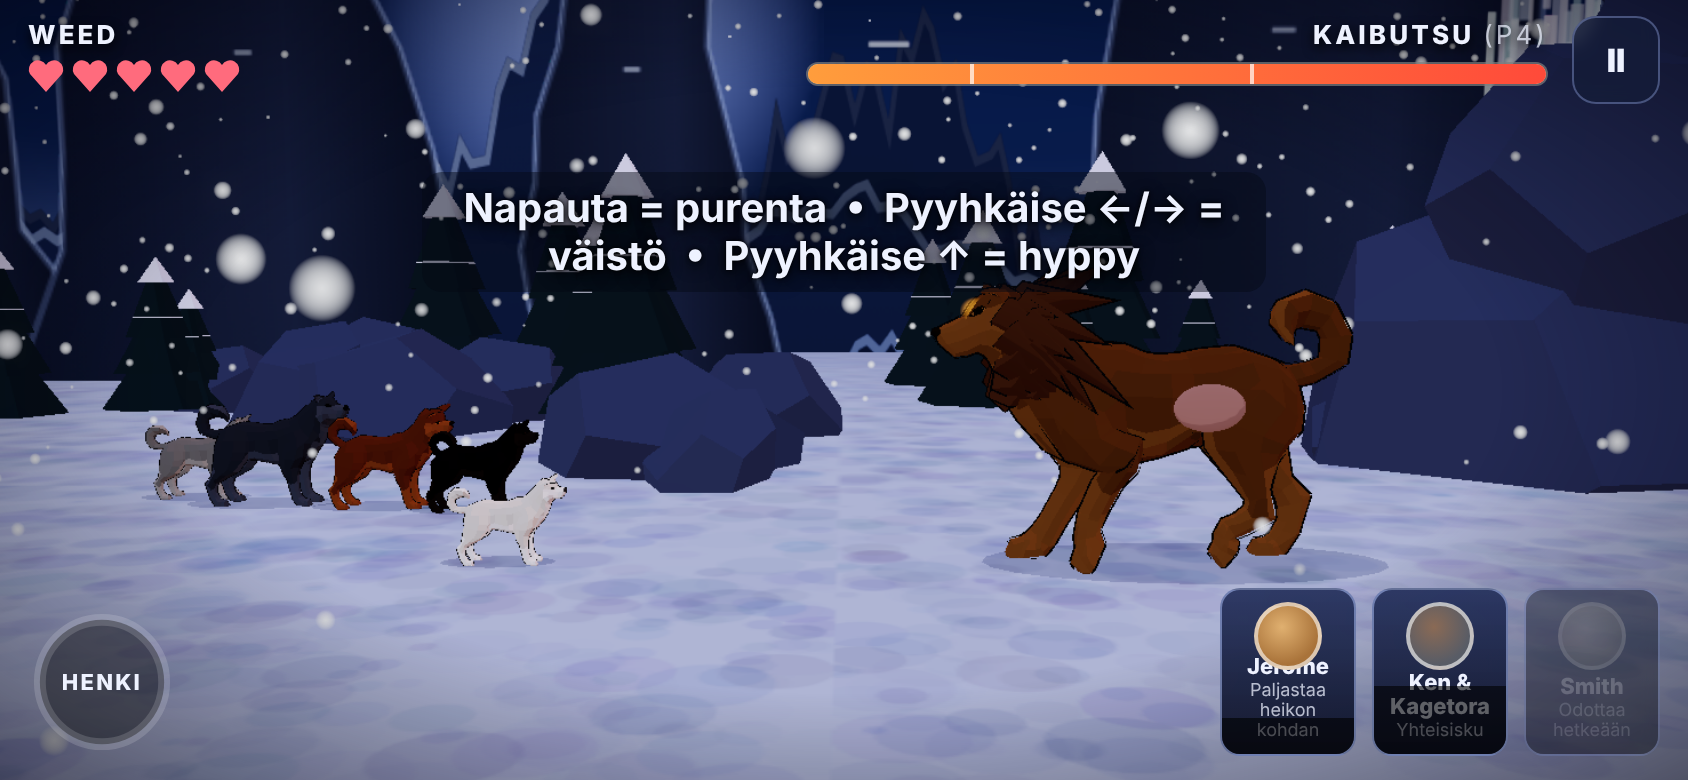
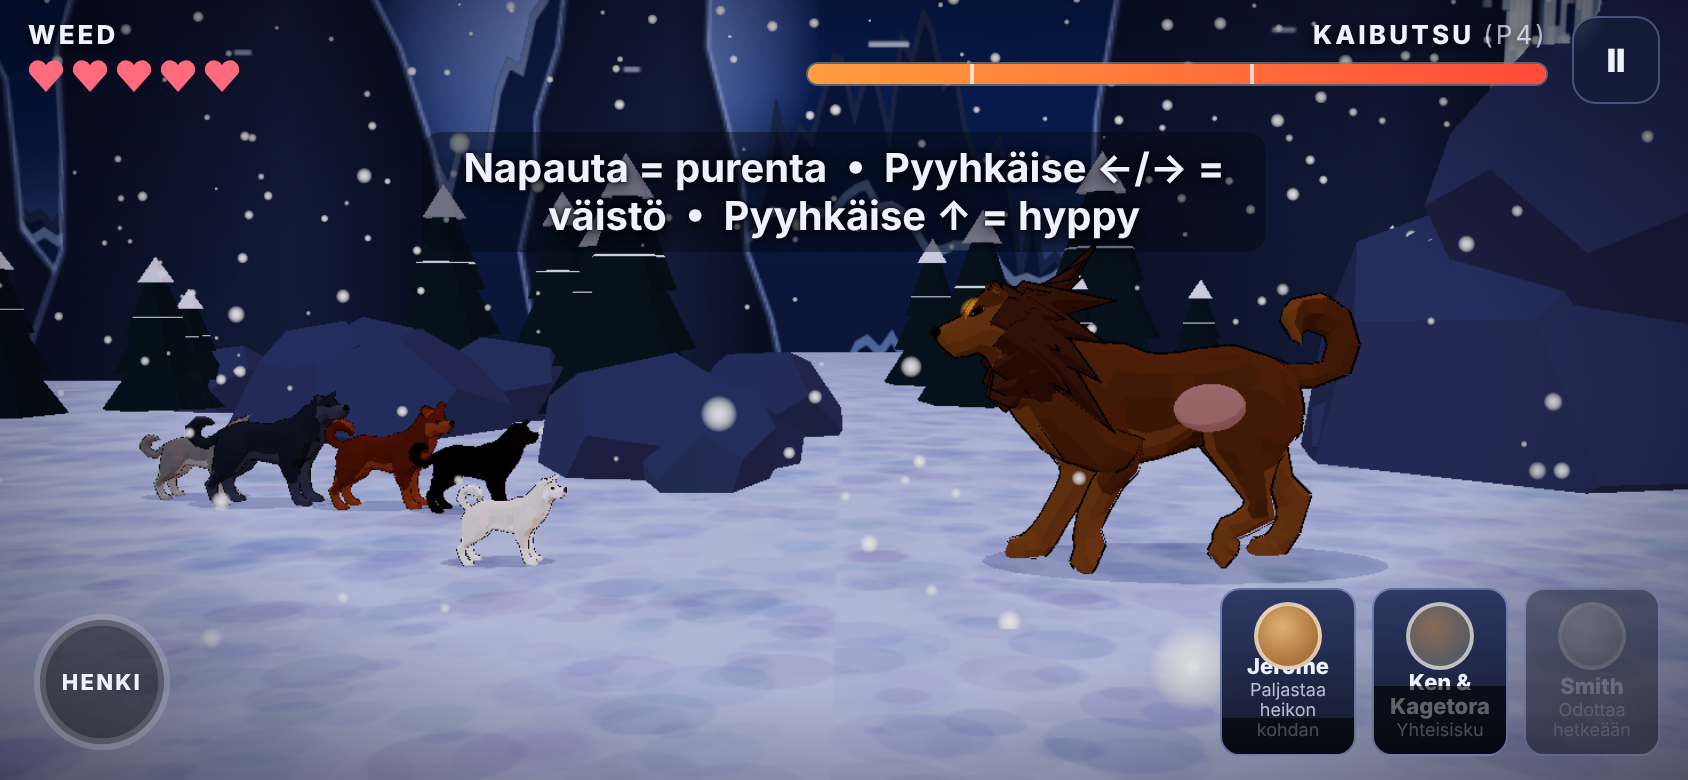
WIP: Weed game prototype snapshot 6 (in progress)
Claude-Session: https://claude.ai/code/session_016HLENcW9gu6Sv4d15G8kND

diff --git a/weed-game/src/style.css b/weed-game/src/style.css
@@ -63,9 +63,9 @@ body.cine #letterbox .bar { height: 11vh; }
 .card.fallen .cd::before { content: '✦ '; }
 #pauseBtn { position: absolute; right: max(14px, env(safe-area-inset-right)); top: 8px; pointer-events: auto; width: 44px; height: 44px; min-height: 44px; padding: 0; font-weight: 900; }
 
-#hint { position: fixed; left: 50%; top: 22%; transform: translateX(-50%); z-index: 6; pointer-events: none; text-align: center;
+#hint { position: fixed; left: 50%; top: 17%; transform: translateX(-50%); z-index: 6; pointer-events: none; text-align: center;
   font-size: clamp(14px, 2.6vw, 20px); font-weight: 700; text-shadow: 0 2px 8px #000, 0 0 2px #000; padding: 6px 14px; border-radius: 10px; background: rgba(5,8,20,0.45); }
-#toast { position: fixed; left: 50%; top: 36%; transform: translate(-50%, 0) scale(0.8); z-index: 6; pointer-events: none; opacity: 0;
+#toast { position: fixed; left: 50%; top: 44%; transform: translate(-50%, 0) scale(0.8); z-index: 6; pointer-events: none; opacity: 0;
   font-size: clamp(18px, 4vw, 34px); font-weight: 900; font-style: italic; letter-spacing: 0.04em; color: #fff;
   text-shadow: 0 0 12px #6af, 0 3px 0 #123; transition: opacity 0.2s, transform 0.2s; white-space: nowrap; }
 #toast.show { opacity: 1; transform: translate(-50%, 0) scale(1); }

diff --git a/weed-game/src/level2.js b/weed-game/src/level2.js
@@ -318,7 +318,7 @@ function checkThresholds() {
     B.hp = 60; B.armored = true; UI.setBossHP(B.hp / B.max, true);
     const sm = S.cards.find(c => c.id === 'smith'); sm.state = 'sacrifice'; UI.updateCard(sm);
     sfx.roar(); shake(0.4);
-    UI.hint('Raivo kovettaa hirviön nahan! Smith katsoo kallion reunaa… <b>Napauta Smithin korttia.</b>');
+    UI.hint('Raivo kovettaa nahan! <b>Napauta Smithin korttia.</b>');
     cast.smith.play('Idle'); cast.smith.earPerk = 1;
   }
   if (S.phase === 2 && B.hp <= 22 && !S.pending) { S.pending = 'arrows'; fourArrows(); }
@@ -406,7 +406,7 @@ async function telegraph(alive, secs) {
   const t0 = E.time;
   while (alive() && E.time - t0 < secs) {
     const k = (E.time - t0) / secs;
-    boss.setTint(0xff2a10, 0.25 + 0.35 * Math.abs(Math.sin(k * 12)));
+    boss.setTint(0xff2a10, 0.06 + 0.14 * Math.abs(Math.sin(k * 12)));
     bang.position.set(B.x, boss.height + 0.9 + Math.sin(k * 20) * 0.05, 0.5);
     await wait(1 / 60);
   }

diff --git a/weed-game/README.md b/weed-game/README.md
@@ -1,0 +1,71 @@
+# Ōun tarina – Weed-fanipelin pelattava luonnos (vertical slice)
+
+Epävirallinen, ei-kaupallinen fanipelin **luonnos**, joka näyttää, millainen lopullinen peli voisi olla.
+Sisältää yhden tason: **Taso 2 "Gajō – Kaibutsu"**. Suunnittelu: `../docs/weed-game/game-design.md`, tarina: `../docs/weed-game/research.md`.
+
+Hahmot ovat **omia tyyliteltyjä low-poly-koiria**, jotka on tehty yhdestä CC0-perusmallista värejä,
+mittakaavaa ja lisäosia vaihtamalla. Ne eivät kopioi animen/mangan hahmosuunnittelua. Virallisia kuvia,
+logoja, musiikkia tai ääniä ei käytetä.
+
+## Ajaminen
+
+```bash
+cd weed-game
+npm install
+npm run dev        # kehityspalvelin (vite --host), näyttää myös lähiverkko-osoitteen
+npm run build      # staattinen build -> dist/
+npm run preview    # buildin esikatselu (vite preview --host)
+```
+
+### Puhelimella
+
+1. Kone ja puhelin samaan Wi-Fi-verkkoon.
+2. `npm run dev` → Vite tulostaa rivin `Network: http://192.168.x.x:5173/`.
+3. Avaa osoite puhelimen selaimessa ja käännä puhelin **vaakatasoon**. Androidilla peli pyytää
+   koko näytön tilaa ja lukitsee vaakasuunnan, kun painat "Taso 2".
+4. Vaihtoehto: `npm run build` ja `dist/` minkä tahansa staattisen palvelimen (GitHub Pages, Netlify)
+   taakse. `base: './'` tekee buildista polkuriippumattoman.
+
+### Ohjaus (kosketus tai hiiri)
+
+| Ele | Toiminto |
+|---|---|
+| Napautus | Weed puree (ryntää hirviön luo ja palaa) |
+| Pyyhkäisy ←/→ | Väistö sivulle |
+| Pyyhkäisy ↑ | Hyppy (väistää syöksyn) |
+| Kaaren piirto ⟳ | **Battōga**, kun Henki-mittari on täynnä |
+| Laumakortit (oikea alakulma) | Jerome paljastaa heikon kohdan, Ken & Kagetora yhteisisku, Smith = uhraus |
+| Täydellinen väistö viime hetkellä | Hidastus + Henkeä |
+| Pitkä painallus / "Ohita" | Ohita cutscene |
+
+### Testilinkit
+- `?play=1` aloittaa suoraan tason intron, `?phase=2&nointro` / `?phase=3&nointro` suoraan vaiheeseen.
+- `?lowfx` poistaa bloomin ja puolittaa partikkelit (heikot puhelimet).
+- Konsolissa `__game.debug` (esim. `__game.debug.fillHenki()`).
+
+## Rakenne
+
+```
+index.html            UI-kerros (HUD, kortit, valikot, tekstitys)
+public/models/dog_base.glb   koiran perusmalli (Quaternius ShibaInu, CC0, meshopt-pakattu)
+src/engine.js         renderöijä, bloom, pelisilmukka, tweenit, slow-mo, cutscenen ohitus
+src/dogs.js           perusmallin lataus, kloonaus hahmoiksi (värit, koko, korvat, kolme jalkaa,
+                      Kaibutsun harja + heikko kohta + hehkuvat silmät), cel-ääriviiva, häntä/korvat
+src/world.js          Gajōn yö: parallax-vuoret, kalliotornit, vesiputous, männyt, lumisade (GPU-shader)
+src/fx.js             partikkelit, iskurenkaat, Battōga-kaari, hengen valot, välähdys, speed-linet
+src/input.js          eleiden tunnistus (napautus/pyyhkäisy/kaari) + eleen valojälki
+src/audio.js          WebAudio-syntetisoidut äänet ja generatiivinen musiikki
+src/level2.js         bossin tekoäly, vaiheet, kortit, cutscenet
+src/main.js           käynnistys, päävalikko, Lauma-esittely
+tools/shots.cjs       Playwright-läpiajo ja kuvakaappaukset -> screenshots/
+```
+
+## Kuvakaappaukset ja testaus
+
+```bash
+npm run build && (npx vite preview --port 4173 &) && node tools/shots.cjs        # kaikki
+node tools/shots.cjs menu | intro | battle | portrait                            # osa
+```
+
+Kaappaukset: `screenshots/` (844×390, DPR 2). Läpiajo pelaa tason alusta tulosruutuun asti
+(valikko → taistelu → Smithin uhraus → Neljä nuolta → Battōga → loppu → tulokset).

diff --git a/weed-game/NEXT.md b/weed-game/NEXT.md
@@ -1,0 +1,37 @@
+# Mitä luonnoksesta puuttuu ja arvio jatkosta
+
+## Puuttuu tästä luonnoksesta
+- **Matka-osuus** (auto-run, väistöt, toverin rekrytointi) – nyt taso alkaa suoraan bossista.
+- **Lähikuva-ilmeet**: koirien kasvoilla ei ole ilmeriggiä (silmät/suu/kyyneleet). Koskettavissa hetkissä
+  tunne tulee kamerasta, valosta, musiikista ja tekstistä. Seuraava iso parannus: muokattu malli, jossa
+  silmäluomi- ja suuluu tai blend shapet (Blender), sekä omat animaatiot "ulvonta", "makaa", "nuolee haavaa".
+- **Battōgan oma animaatio**: nyt pyörähdys = Gallop_Jump + koko mallin rotaatio. Oikea kierrehyppy
+  kannattaa animoida erikseen.
+- **Rodut**: kaikki käyttävät shiba-mallin muotoa. Tanskandogi/saksanpaimen tarvitsevat ainakin
+  luukohtaisen skaalauksen (pidemmät jalat, kuono) tai 2–3 perusmallia.
+- **Kaibutsun loppu** on yksinkertaistettu (putoaa vesiputouksen usvaan). Daisuke, Ken & Kagetoran
+  putoaminen ja puunrunko jäivät pois PEGI 12 -rajauksen ja laajuuden takia.
+- PWA:n service worker/offline, ikonit, tallennus useammalle tasolle, asetukset (vaikeustaso,
+  "Tarina-tila"), suomi/englanti-valinta, haptiikka iOS:llä.
+- Suorituskykymittaus oikealla puhelimella (headless-testissä ohjelmistorenderöinti, fps ei kuvaava).
+  Automaattinen laadun lasku (bloom pois, kun frame > 20 ms) on vielä tekemättä; nyt käsin `?lowfx`.
+- Äänet ovat syntetisoituja placeholdereita; oikea musiikki (piano + taiko) ja CC0-äänet myöhemmin.
+
+## Arvio tasoista 1, 3–8 (animen tarina: prologi + Kaibutsu + Hōgen)
+Pohja (moottori, koirat, eleet, kortit, cutscene-työkalut, sää) on nyt olemassa, joten uusi taso on
+pääosin **dataa + skriptattuja cutsceneja + 1 uusi boss-kuviolista**.
+
+| Taso | Sisältö (research.md) | Uutta tekniikkaa | Työmäärä* |
+|---|---|---|---|
+| 1 Prologi / Rosvojen tie | Sakura, GB antaa nimen, Mel, Smith, Blue suojelee rekalta | auto-run-osuus, rekka, GB-malli (setteri) | M–L |
+| 3 Kaibutsun loppu (jos taso 2 jaetaan) | vesiputous, Jeromen syyllisyys | vesi/putous-tehoste | S |
+| 4 Alppien vangit | Hōgenin vartijat, Johnin viimeinen taistelu | useampi pikkuvihollinen kerralla | M |
+| 5 Hylättyjen pentujen kuningas | Kyōshirō, Lector & Thunder (2 bossia), Terun isä | kaksoisbossi-AI | M |
+| 6 Kuuma lähde | Tesshin, Zetsu Tenrō Battōga (rytmi-QTE), Sanchō-villisika, Kamakiri | villisikamalli, rytmi-QTE | M–L |
+| 7 Futago-solan lumimyrsky | Genba, Hōgen ja veljensä, Tōbee | lumimyrsky-sää, raskaat cutscenet | M |
+| 8 Ōun henget | Hōgen (3 vaihetta), henget nousevat, Weed säästää | henkisiluetit (läpikuultavat koirat on jo `fade`), finaali | L |
+
+*S ≈ 1 agenttisessio, M ≈ 2–3, L ≈ 4–5 (sisältää testauksen ja kuvakaappaukset).
+**Kokonaisuus:** noin 15–25 agenttisessiota ennen kuin kaikki 8 tasoa ovat pelattavissa
+luonnostason laadulla. Lisäksi 1–2 sessiota mallin parantamiseen (ilmeet, rodut), mikä nostaa
+koskettavien kohtausten tasoa eniten.

diff --git a/weed-game/CREDITS.md b/weed-game/CREDITS.md
@@ -1,0 +1,35 @@
+# Tekijät ja lisenssit
+
+## 3D-malli
+- **Koiran perusmalli** `public/models/dog_base.glb` = *Shiba Inu* paketista **"Ultimate Animated Animal Pack"**,
+  tekijä **Quaternius** (https://quaternius.com/packs/ultimateanimatedanimals.html).
+  Lisenssi: **CC0 1.0** (public domain), attribuutio ei pakollinen mutta annetaan kiitoksena.
+  Animaatiot mallissa: Idle, Idle_2, Idle_2_HeadLow, Walk, Gallop, Gallop_Jump, Jump_ToIdle,
+  Attack, Death, Eating, Idle_HitReact1/2.
+  - Hankinta: Quaterniuksen oma Google Drive -lataus palautti "quota exceeded", joten sama CC0-tiedosto
+    (meshopt-pakattu glb, glTF-Transform) haettiin julkisesta GitHub-peilistä
+    `J-992/GGStudio` → `comfy-zoo/public/assets/models/animals/ShibaInu.glb` (Git LFS).
+  - Kaikki hahmot (Weed, Gin, Smith, Jerome, Ken, Kagetora, Robert, Rocker, Heuler, Kaibutsu)
+    ovat tämän mallin klooneja: uudelleenväritetty palettitekstuuri, mittakaava, korvaluiden skaala,
+    Smithin piilotettu etujalka, Kaibutsun harja (kartiot) + karvaton kylki + hehkuvat silmät koodissa.
+
+### Kokeillut reitit (kirjattu tehtävänannon mukaisesti)
+1. **Sketchfab**: haku-API toimi (löytyi mm. CC-BY "Animated Dog, Shiba Inu"), mutta lataus-API vaati
+   tokenin (401), eikä ympäristössä ollut Sketchfab-tokenia → ohitettiin.
+2. **Quaternius (CC0)**: ✔ valittu (ks. yllä). Kenney.nl palautti 403, Poly Pizza 403.
+3. **Blender/bpy**: ei tarvittu, koska valmis rigattu ja animoitu CC0-malli löytyi.
+
+## Äänet ja musiikki
+- Kaikki äänet (purenta, väistö, karjunta, kivivyöry, Battōga, haukku, ulvonta) ja musiikki
+  (taisteluostinato, surullinen piano-arpeggio, rauhallinen teema) **syntetisoidaan koodissa**
+  WebAudio-API:lla (`src/audio.js`). Ei ulkoisia äänitiedostoja.
+
+## Kirjastot
+- **three.js** 0.170.0 – MIT (three.js authors)
+- **Vite** 5 – MIT
+- meshopt_decoder (three.js examples) – MIT (Arseny Kapoulkine)
+
+## Alkuperäisteos
+- *Ginga Densetsu Weed* © Yoshihiro Takahashi / Nihon Bungeisha. Tämä on epävirallinen,
+  ei-kaupallinen fanityö. Tarinan tapahtumat on kirjoitettu omin sanoin `docs/weed-game/research.md`:n
+  pohjalta; repliikit ovat omia, paitsi yksi research.md:ssä lainattu repliikki (Heuler).
